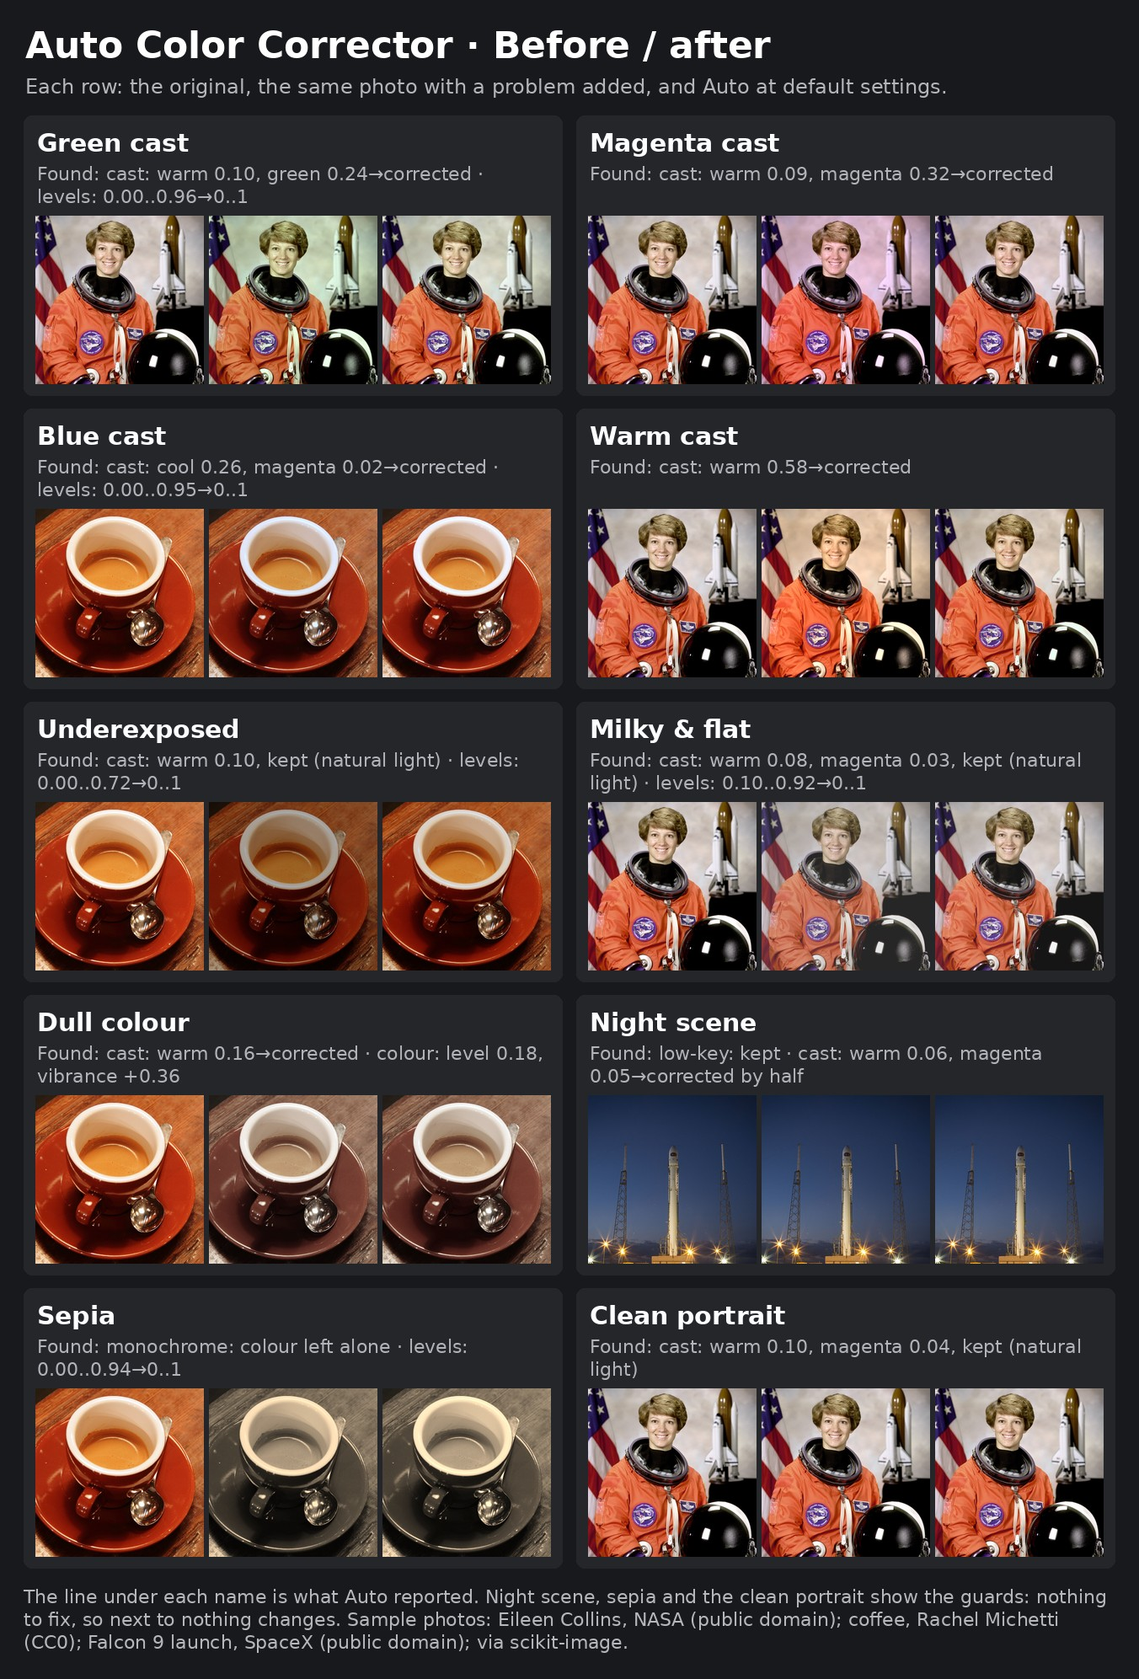
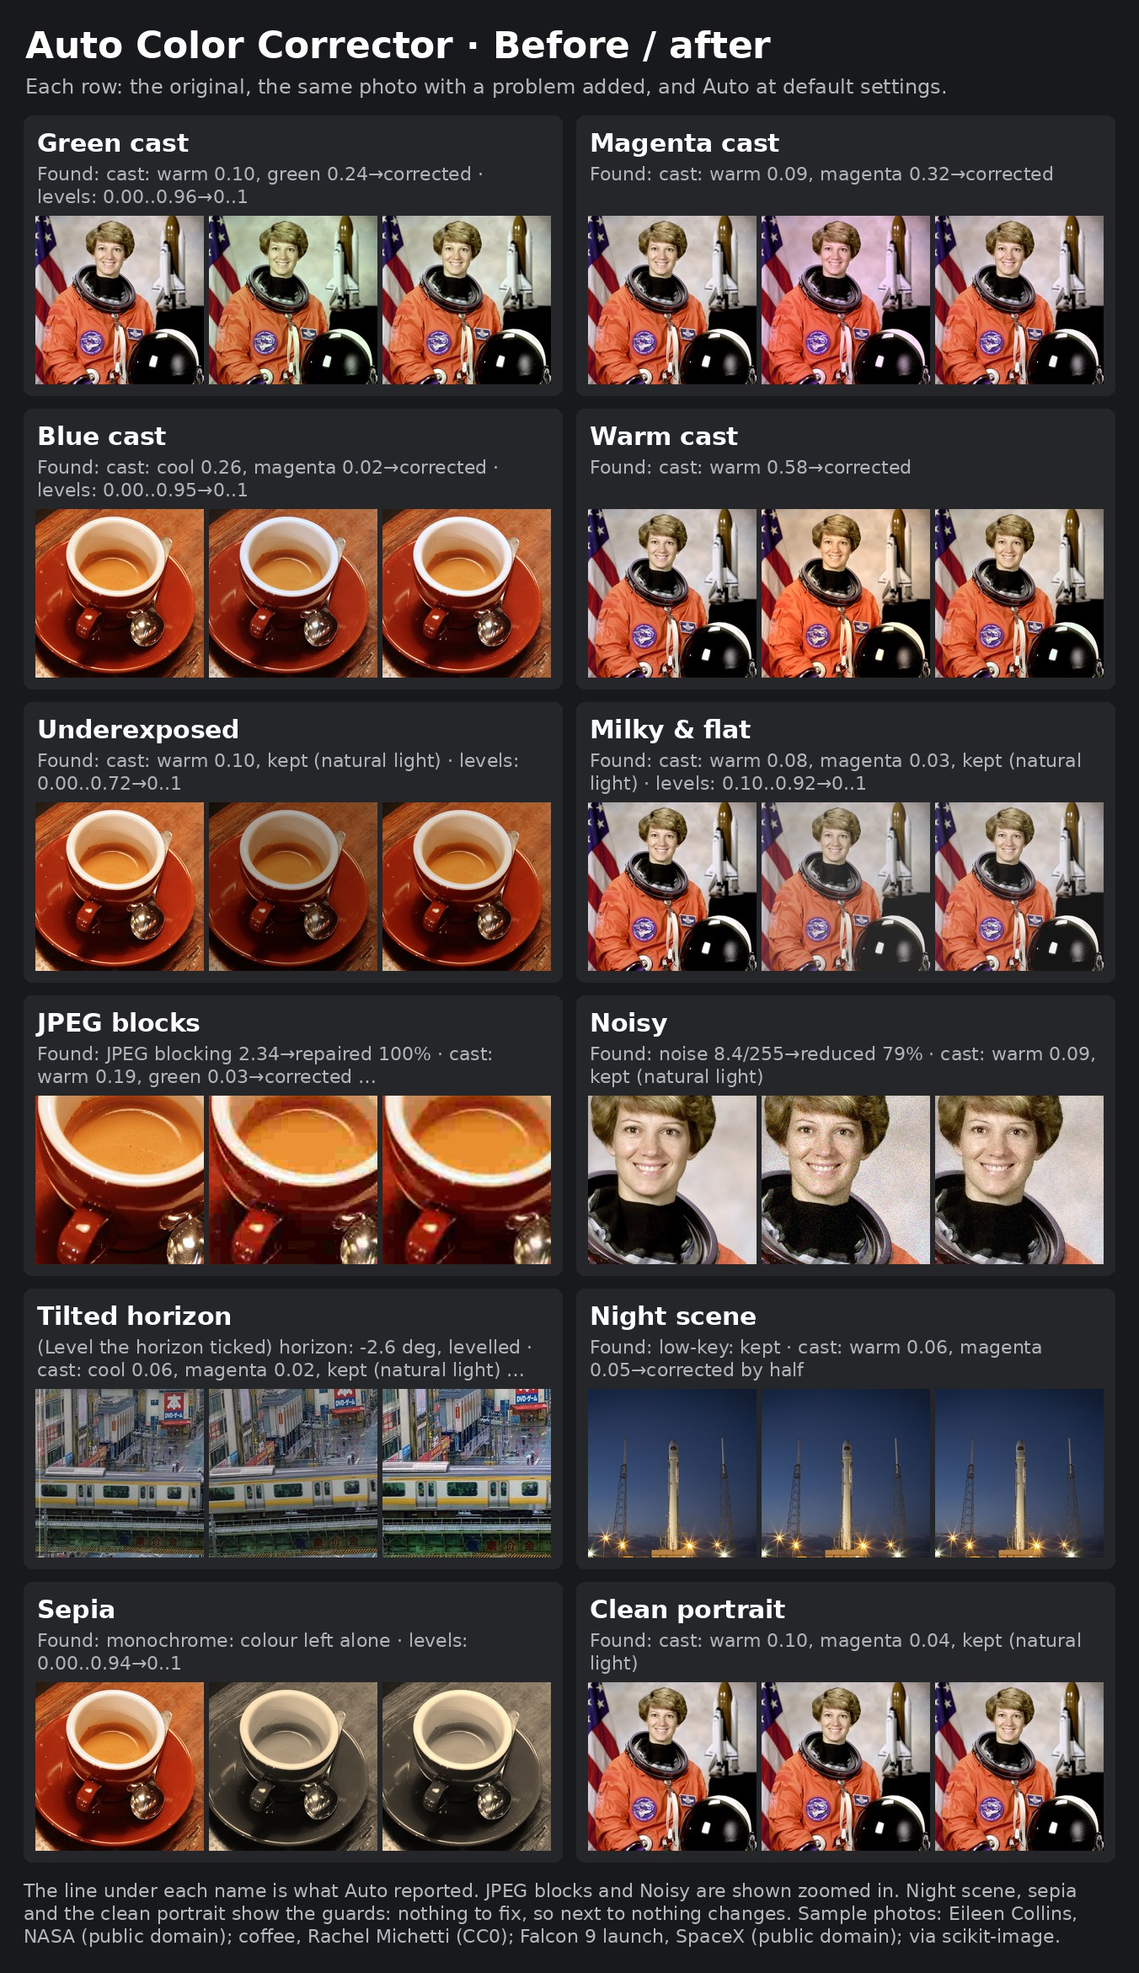
JPEG repair, noise reduction and horizon levelling, all measured
- JPEG blocking: measured as the step across the 8x8 grid against the steps
  inside the blocks (about 1.0 clean, 1.3 at quality 50, 1.7+ at 20);
  de-blocking and de-ringing (moved here from Digital Mastering) as strong as
  the blocking found.
- Noise: Immerkaer's estimate over the flatter half of the picture; chroma
  noise smoothed hard, luma gently and away from edges.
- Horizon (off by default): tilt from long coherent straight edges via the
  structure tensor, acted on only when confident; the picture is turned and
  scaled to hide the corners, after Overall strength so turned and original
  never mix.
- Skin-tone correction was tried and left out: without a person detector
  orange clothes, wood and coffee measure as skin.
- Three more X/Y/Z axes, before / after picture with JPEG, noise and horizon
  cases, README updated.

The earlier test cases report and render exactly as before.

Claude-Session: https://claude.ai/code/session_01VRYVbQCnCMuoqNc9wUeJiU

diff --git a/lib_acc/repair.py b/lib_acc/repair.py
@@ -1,0 +1,171 @@
+"""Repairs that Auto measures before it fixes: JPEG blocking and ringing,
+noise, a tilted horizon. Pure torch, (B, 3, H, W) sRGB in 0..1.
+
+JPEG de-blocking and de-ringing came over from Digital Mastering; here they
+are applied only as strongly as the blocking actually measured calls for.
+"""
+
+from __future__ import annotations
+
+import math
+
+import torch
+import torch.nn.functional as F
+
+from . import ops
+
+
+def _gauss(x, sigma):
+    if sigma <= 0:
+        return x
+    r = max(1, int(math.ceil(3 * sigma)))
+    t = torch.arange(-r, r + 1, device=x.device, dtype=x.dtype)
+    k = torch.exp(-0.5 * (t / sigma) ** 2)
+    k = k / k.sum()
+    c = x.shape[1]
+    mode = "reflect" if r < min(x.shape[-2:]) else "replicate"
+    x = F.conv2d(F.pad(x, (r, r, 0, 0), mode=mode), k.view(1, 1, 1, -1).expand(c, 1, 1, -1), groups=c)
+    return F.conv2d(F.pad(x, (0, 0, r, r), mode=mode), k.view(1, 1, -1, 1).expand(c, 1, -1, 1), groups=c)
+
+
+def _sobel(y):
+    kx = y.new_tensor([[-1.0, 0.0, 1.0], [-2.0, 0.0, 2.0], [-1.0, 0.0, 1.0]]).view(1, 1, 3, 3) / 4.0
+    p = F.pad(y, (1, 1, 1, 1), mode="replicate")
+    gx = F.conv2d(p, kx)
+    gy = F.conv2d(p, kx.transpose(2, 3))
+    return torch.sqrt(gx * gx + gy * gy + 1e-12)
+
+
+# ------------------------------------------------------------------ JPEG
+
+def blockiness(x):
+    """How much stronger the steps across the 8-pixel JPEG grid are than the
+    steps inside the blocks: about 1.0 for a clean image, 1.2+ when blocking
+    shows. Measured on the full-size image (resizing hides the grid)."""
+    y = ops.luma(x)[0, 0]
+    h, w = y.shape
+    if h < 32 or w < 32:
+        return 1.0
+    dx = (y[:, 1:] - y[:, :-1]).abs()
+    dy = (y[1:, :] - y[:-1, :]).abs()
+    on_x = (torch.arange(w - 1, device=x.device) % 8) == 7
+    on_y = (torch.arange(h - 1, device=x.device) % 8) == 7
+    edge = dx[:, on_x].mean() + dy[on_y, :].mean()
+    inner = dx[:, ~on_x].mean() + dy[~on_y, :].mean()
+    return float(edge / inner.clamp_min(1e-6))
+
+
+def deblock(x, strength):
+    """Soften the two pixels either side of each 8x8 JPEG block boundary."""
+    _, _, h, w = x.shape
+    rows = torch.arange(h, device=x.device)
+    cols = torch.arange(w, device=x.device)
+    on_r = ((rows % 8 == 7) & (rows < h - 1)) | ((rows % 8 == 0) & (rows > 0))
+    on_c = ((cols % 8 == 7) & (cols < w - 1)) | ((cols % 8 == 0) & (cols > 0))
+    mask = (on_r.view(1, 1, h, 1) | on_c.view(1, 1, 1, w)).to(x.dtype)
+    k = x.new_tensor([[1.0, 2.0, 1.0], [2.0, 4.0, 2.0], [1.0, 2.0, 1.0]]) / 16.0
+    blurred = F.conv2d(F.pad(x, (1, 1, 1, 1), mode="replicate"), k.expand(3, 1, 3, 3), groups=3)
+    return torch.lerp(x, blurred, mask * strength)
+
+
+def dering(x, strength):
+    """Smooth the flat areas right next to strong edges, where ringing lives."""
+    halo = _sobel(ops.luma(x))
+    halo = F.max_pool2d(halo, (1, 5), stride=1, padding=(0, 2))
+    halo = F.max_pool2d(halo, (5, 1), stride=1, padding=(2, 0))
+    halo = (halo * 3.0).clamp(0.0, 1.0)
+    return torch.lerp(x, _gauss(x, 1.0), halo * strength)
+
+
+# ------------------------------------------------------------------ noise
+
+def noise_sigma(x):
+    """Noise level (standard deviation, 0..1 scale) by Immerkaer's method,
+    taken only over the flatter half of the picture so texture is not
+    mistaken for noise. Uses at most a 1024 px centre crop."""
+    _, _, h, w = x.shape
+    if min(h, w) < 16:
+        return 0.0
+    ch, cw = min(h, 1024), min(w, 1024)
+    t, l = (h - ch) // 2, (w - cw) // 2
+    y = ops.luma(x[:, :, t:t + ch, l:l + cw])
+    k = y.new_tensor([[1.0, -2.0, 1.0], [-2.0, 4.0, -2.0], [1.0, -2.0, 1.0]]).view(1, 1, 3, 3)
+    resp = F.conv2d(y, k).abs()
+    grad = _sobel(y)[:, :, 1:-1, 1:-1]
+    flat = grad <= torch.quantile(grad.flatten()[::7].float(), 0.5)
+    if int(flat.sum()) < 100:
+        return 0.0
+    return float(math.sqrt(math.pi / 2) / 6.0 * resp[flat].mean())
+
+
+def denoise(x, amount):
+    """Chroma noise smoothed hard (it is the ugly part), luma noise gently and
+    only away from edges, so detail stays."""
+    if amount <= 0:
+        return x
+    m = x.new_tensor([[0.299, 0.587, 0.114], [-0.169, -0.331, 0.5], [0.5, -0.419, -0.081]])
+    ycc = torch.einsum("ij,bjhw->bihw", m, x)
+    y, c = ycc[:, 0:1], ycc[:, 1:3]
+    c = torch.lerp(c, _gauss(c, 1.5 + 2.5 * amount), min(1.0, amount * 1.5))
+    edges = (_sobel(y) * 8.0).clamp(0.0, 1.0)
+    y = torch.lerp(y, _gauss(y, 0.7 + 0.8 * amount), amount * (1.0 - edges))
+    return torch.einsum("ij,bjhw->bihw", torch.linalg.inv(m), torch.cat((y, c), 1)).clamp(0.0, 1.0)
+
+
+# ------------------------------------------------------------------ horizon
+
+def tilt(x, limit=8.0):
+    """(degrees to turn the picture to level it, confidence), from the long
+    straight edges near horizontal and vertical (horizons, buildings, door
+    frames). Confidence is how far the winning direction stands above an even
+    spread: around 1-2 for pictures without straight lines, 5 and up for
+    streets and buildings."""
+    y = ops.luma(x)
+    s = 768.0 / max(y.shape[-2:])
+    if s < 1.0:
+        y = F.interpolate(y, scale_factor=s, mode="area")
+    kx = y.new_tensor([[-1.0, 0.0, 1.0], [-2.0, 0.0, 2.0], [-1.0, 0.0, 1.0]]).view(1, 1, 3, 3)
+    p = F.pad(y, (1, 1, 1, 1), mode="replicate")
+    gx, gy = F.conv2d(p, kx), F.conv2d(p, kx.transpose(2, 3))
+    # Structure tensor: the local edge direction and how consistent it is,
+    # so long straight edges count and texture does not.
+    jxx, jxy, jyy = _gauss(gx * gx, 4.0), _gauss(gx * gy, 4.0), _gauss(gy * gy, 4.0)
+    energy = jxx + jyy
+    coherence = torch.sqrt((jxx - jyy) ** 2 + 4 * jxy * jxy) / (energy + 1e-9)
+    theta = 0.5 * torch.rad2deg(torch.atan2(2 * jxy, jxx - jyy))
+    w = (energy * (coherence > 0.85)).flatten()
+    dev = ((theta + 45.0) % 90.0 - 45.0).flatten()
+    near = (dev.abs() <= limit) & (w > 0)
+    if int(near.sum()) < 200:
+        return 0.0, 0.0
+    nb = int(limit * 8)                                       # quarter-degree bins
+    idx = ((dev[near] + limit) / (2 * limit) * (nb - 1)).round().long()
+    hist = torch.zeros(nb, device=x.device, dtype=x.dtype).index_add_(0, idx, w[near])
+    smooth = F.conv1d(hist.view(1, 1, -1), x.new_tensor([[[1.0, 2.0, 3.0, 2.0, 1.0]]]) / 9.0, padding=2)[0, 0]
+    k = int(smooth.argmax())
+    # Sub-bin peak by a parabola through the three bins around it.
+    off = 0.0
+    if 0 < k < nb - 1:
+        a, b, c = (float(v) for v in smooth[k - 1:k + 2])
+        den = a - 2 * b + c
+        off = 0.5 * (a - c) / den if abs(den) > 1e-12 else 0.0
+    angle = -limit + 2 * limit * (k + off) / (nb - 1)
+    return angle, float(smooth[k] / smooth.mean().clamp_min(1e-9))
+
+
+def rotate(x, degrees):
+    """Turn the picture and scale it just enough that no empty corner shows."""
+    if abs(degrees) < 1e-3:
+        return x
+    _, _, h, w = x.shape
+    t = math.radians(degrees)
+    c, s = math.cos(t), math.sin(t)
+    a = w / h
+    zoom = abs(c) + abs(s) * max(a, 1.0 / a)
+    yy, xx = torch.meshgrid(torch.linspace(-1, 1, h, device=x.device, dtype=x.dtype),
+                            torch.linspace(-1, 1, w, device=x.device, dtype=x.dtype), indexing="ij")
+    px, py = xx * a / zoom, yy / zoom
+    gx = (px * c - py * s) / a
+    gy = px * s + py * c
+    grid = torch.stack((gx, gy), -1).unsqueeze(0).expand(x.shape[0], -1, -1, -1)
+    return F.grid_sample(x, grid, mode="bicubic", padding_mode="border", align_corners=True).clamp(0.0, 1.0)

diff --git a/lib_acc/auto.py b/lib_acc/auto.py
@@ -21,7 +21,7 @@ from dataclasses import dataclass, field
 import torch
 import torch.nn.functional as F
 
-from . import ops
+from . import ops, repair
 
 ANALYSIS_SIZE = 512
 
@@ -36,11 +36,16 @@ class Plan:
     pivot: float = 0.5
     vibrance: float = 0.0
     reference: tuple = None       # (ref_mean, ref_std) in Lab
+    deblock: float = 0.0
+    dering: float = 0.0
+    denoise: float = 0.0
+    rotate: float = 0.0           # degrees
     notes: list = field(default_factory=list)
 
     def changes(self):
         return (any(abs(g - 1.0) > 1e-6 for g in self.gains) or self.black > 0.0 or self.white < 1.0
-                or bool(self.stops) or bool(self.contrast) or bool(self.vibrance) or self.reference is not None)
+                or bool(self.stops) or bool(self.contrast) or bool(self.vibrance) or self.reference is not None
+                or self.deblock > 0 or self.denoise > 0 or bool(self.rotate))
 
     def report(self):
         return " · ".join(self.notes) if self.notes else "nothing to correct"
@@ -172,6 +177,23 @@ def _describe_cast(gains):
 def plan(x, s, reference=None):
     """Decide the corrections for x (1, 3, H, W) under settings s."""
     p = Plan()
+
+    # 0. Repairs, measured on the full-size picture: resizing hides the JPEG
+    # grid and averages noise away.
+    if s["en_jpeg"] and s["jpeg"] > 0:
+        b = repair.blockiness(x)
+        amount = min(1.0, max(0.0, (b - 1.12) / 0.5)) * s["jpeg"]
+        if amount >= 0.05:
+            # Ringing softens detail when cleaned, so it gets the lighter hand.
+            p.deblock, p.dering = amount, amount * 0.5
+            p.notes.append(f"JPEG blocking {b:.2f} -> repaired {amount:.0%}")
+    if s["en_denoise"] and s["denoise"] > 0:
+        sigma = repair.noise_sigma(x)
+        amount = min(1.0, max(0.0, (sigma - 0.008) / 0.025)) * s["denoise"]
+        if amount >= 0.05:
+            p.denoise = amount
+            p.notes.append(f"noise {sigma * 255:.1f}/255 -> reduced {amount:.0%}")
+
     small = _small(x)
     mono = is_monochrome(small)
     key = tonal_key(small) if s["protect_intent"] else "normal"
@@ -276,7 +298,16 @@ def plan(x, s, reference=None):
             p.vibrance = amount
             p.notes.append(f"colour: level {level:.2f}, vibrance {amount:+.2f}")
 
-    # 6. Reference
+    # 6. Horizon (off by default: it turns and crops the frame)
+    if s["en_horizon"]:
+        angle, confidence = repair.tilt(small)
+        if confidence >= 4.0 and 0.4 <= abs(angle) <= 8.0:
+            p.rotate = angle
+            p.notes.append(f"horizon: {angle:+.1f} deg, levelled")
+        elif abs(angle) >= 0.4 and confidence > 0:
+            p.notes.append(f"horizon: maybe {angle:+.1f} deg, not sure enough, kept")
+
+    # 7. Reference
     if reference is not None and s["ref_strength"] > 0:
         p.reference = lab_stats(reference)
         p.notes.append(f"reference: matched {s['ref_strength']:.0%}")
@@ -284,7 +315,15 @@ def plan(x, s, reference=None):
 
 
 def apply(x, p, ref_strength=0.0):
-    """Carry out a plan on the full-size image."""
+    """Carry out a plan's pixel corrections on the full-size image. The
+    horizon turn is not here: it changes the geometry, so it is done after
+    Overall strength has blended corrected and original."""
+    if p.deblock > 0:
+        x = repair.deblock(x, p.deblock)
+    if p.dering > 0:
+        x = repair.dering(x, p.dering)
+    if p.denoise > 0:
+        x = repair.denoise(x, p.denoise)
     if any(abs(g - 1.0) > 1e-6 for g in p.gains):
         x = ops.white_balance(x, x.new_tensor(p.gains))
     if p.black > 0.0 or p.white < 1.0:
@@ -330,6 +369,8 @@ def correct(image, s, reference=None, device="cpu"):
     out = apply(x, p, s["ref_strength"] if ref is not None else 0.0)
     if s["strength"] < 1.0:
         out = torch.lerp(x, out, s["strength"])
+    if p.rotate:
+        out = repair.rotate(out, p.rotate)
     result = to_image(out)
     if alpha is not None:
         result.putalpha(alpha)

diff --git a/scripts/auto_color_corrector.py b/scripts/auto_color_corrector.py
@@ -19,15 +19,17 @@ from lib_acc.controls import (  # noqa: E402
 from lib_acc.reference import reference_html  # noqa: E402
 from lib_acc import xyz  # noqa: E402
 
-GUIDE = ("*Fixes what is off and nothing else: colour casts, milky blacks, too dark or too bright, flat or "
-         "harsh, dull colour. Each fix measures the image first and is skipped when there is nothing to "
+GUIDE = ("*Fixes what is off and nothing else: JPEG blocking, noise, colour casts, milky blacks, too dark or "
+         "too bright, flat or harsh, dull colour, and (if ticked) a tilted horizon. Each fix measures the image first and is skipped when there is nothing to "
          "fix. Runs before Optical Realism and Digital Mastering, so they start from a clean picture. "
          "The console and PNG info say what was found.*")
 
 SECTIONS = [
+    ("Repair", ["en_jpeg", "jpeg", "en_denoise", "denoise"]),
     ("Colour cast", ["en_wb", "wb", "keep_mood"]),
     ("Tone", ["en_levels", "levels", "en_exposure", "exposure", "en_contrast", "contrast"]),
     ("Colour strength", ["en_saturation", "saturation"]),
+    ("Horizon", ["en_horizon"]),
     ("Intent", ["protect_intent"]),
 ]
 
@@ -44,6 +46,9 @@ def _register_xyz():
         ("Fix exposure", str, "en_exposure", xyz.bools),
         ("Fix contrast", str, "en_contrast", xyz.bools),
         ("Fix colour strength", str, "en_saturation", xyz.bools),
+        ("Fix JPEG blocking", str, "en_jpeg", xyz.bools),
+        ("Fix noise", str, "en_denoise", xyz.bools),
+        ("Level the horizon", str, "en_horizon", xyz.bools),
         ("Respect low-key / high-key", str, "protect_intent", xyz.bools),
     ])
 

diff --git a/lib_acc/controls.py b/lib_acc/controls.py
@@ -34,6 +34,13 @@ CONTROLS = [
     C("contrast", "Contrast", 0.6, info="Lifts a flat picture, calms a harsh one."),
     C("en_saturation", "Fix colour strength", True, kind="checkbox"),
     C("saturation", "Colour strength", 0.8, info="Vibrance on dull pictures; skin and strong colours are spared."),
+    C("en_jpeg", "Fix JPEG blocking", True, kind="checkbox"),
+    C("jpeg", "JPEG repair", 1.0, info="Measures the 8x8 block grid and smooths it and the ringing round edges."),
+    C("en_denoise", "Fix noise", True, kind="checkbox"),
+    C("denoise", "Noise reduction", 0.8, info="Measures the noise; colour noise is smoothed hard, grain-like "
+      "luminance noise gently and away from edges."),
+    C("en_horizon", "Level the horizon", False, kind="checkbox",
+      info="Finds a tilt from long straight lines and turns the picture level (it crops a little). Off by default."),
     C("protect_intent", "Respect low-key / high-key pictures", True, kind="checkbox",
       info="A night scene with lights stays dark, a bright snow scene stays bright."),
     C("ref_strength", "Reference strength", 0.5,

diff --git a/README.md b/README.md
@@ -1,8 +1,8 @@
 # Stable Diffusion Forge: Auto Color Corrector
 
-Fixes what is off in every generated image, and nothing else: colour casts,
-milky blacks, a frame that is too dark or too bright, flat or harsh contrast,
-dull colour. Each fix measures the image first and is skipped when there is
+Fixes what is off in every generated image, and nothing else: JPEG blocking,
+noise, colour casts, milky blacks, a frame that is too dark or too bright, flat
+or harsh contrast, dull colour, and (when ticked) a tilted horizon. Each fix measures the image first and is skipped when there is
 nothing to fix, so a well-made image comes through untouched. Works on Forge,
 reForge and Forge Classic (Neo). No models, no downloads: it reads the
 picture's own histogram and colours.
@@ -16,7 +16,7 @@ order:
 
 | 1. [Auto Color Corrector](https://github.com/sca-285/sd-forge-auto-color-corrector) | 2. [Optical Realism](https://github.com/sca-285/sd-forge-optical-realism) | 3. [Digital Mastering](https://github.com/sca-285/sd-webui-digital-mastering) |
 |---|---|---|
-| **Correction**, automatic: measures the image and fixes only what is off (colour cast, black and white points, exposure, flat or harsh contrast, dull colour), or matches a reference picture | **The camera**: lens geometry, vignette, depth of field, blur, bloom, flare, halation, light wrap, flash, haze, grain, dust, scratches, date stamp, highlight roll-off | **The grade**, by hand or by preset: exposure, contrast, white balance, saturation, vibrance, split toning, CDL, LUT, selective colour, clarity, sharpen, overlays, anti-banding, JPEG repair |
+| **Correction**, automatic: measures the image and fixes only what is off (colour cast, black and white points, exposure, flat or harsh contrast, dull colour, JPEG blocks, noise, a tilted horizon), or matches a reference picture | **The camera**: lens geometry, vignette, purple fringing, depth of field and bokeh, tilt-shift, blur, bloom, flare, anamorphic streak, star filter, god rays, halation, light wrap, flash, haze, grain, dust, scratches, date stamp, highlight roll-off, retro video | **The grade**, by hand or by preset: exposure, contrast, white balance, saturation, vibrance, split toning, CDL, LUT, selective colour, clarity, sharpen, overlays, HSL, colour wheels, tone curves, black & white, dehaze, skin smoothing, local light, subtitles, anti-banding |
 
 No two of them do the same job. Auto Color Corrector and Digital Mastering
 both touch exposure and white balance, but for opposite ends: the corrector
@@ -32,12 +32,15 @@ here is a look: for looks, use the presets of the other two.
 
 | Step | Detects | Fixes |
 |---|---|---|
+| JPEG blocking | How much stronger the steps across the 8x8 JPEG grid are than inside the blocks (about 1.0 when clean, 1.3 at quality 50, 1.7+ at quality 20), on the full-size picture | De-blocking along the grid and de-ringing round edges, as strong as the blocking measured (moved here from Digital Mastering) |
+| Noise | The noise level (Immerkaer's method) over the flatter half of the picture, so texture is not taken for noise | Colour noise smoothed hard, luminance noise gently and only away from edges |
 | Colour cast | The colour of the bright near-neutral pixels (a white shirt, a cup, clouds), on both axes: warm/cool and green/magenta | White balance in linear light, by the size of the cast. Warm and cool light within an everyday range is kept as natural light; green and magenta casts get almost no allowance |
 | Black & white points | Milky blacks, dull whites (0.5 % and 99.5 % percentiles) | Levels, capped so nothing clips |
 | Exposure | A median brightness outside the normal band, or clipped whites | Exposure in linear light, with a shoulder so black stays black and white stays white; brought to the edge of the band, not to one "correct" grey |
 | Contrast | A flat or harsh histogram (its middle half) | A gentle S-curve around the picture's own middle grey |
 | Colour strength | Dull or overcooked colour | Vibrance: weak colours move most, skin and strong colours least |
 | Reference (optional) | Your reference picture | Its colour and spread (mean and deviation in Lab), at Reference strength |
+| Horizon (off by default) | The tilt of the long straight edges near horizontal and vertical (horizons, buildings, door frames), from the structure tensor, with a confidence | Turns the picture level and scales it just enough to hide the corners; only when confident (streets, buildings), never for pictures without straight lines. Done after Overall strength, so the turned and the original picture never mix |
 
 **Guards** keep deliberate pictures as they are:
 
@@ -48,6 +51,10 @@ here is a look: for looks, use the presets of the other two.
 - **No neutrals to measure** (golden hour, neon): the colour is left alone.
 - **Almost one tone** (a plain backdrop): the tone is left alone.
 - **Keep mood** keeps a share of any cast it finds.
+
+Skin tone is not corrected on its own: without a person detector, orange
+clothes, wood and coffee measure as skin. A cast on skin is fixed by the white
+balance; Digital Mastering's HSL (orange, red) adjusts skin by hand.
 
 Each step has an on/off box and a strength slider; **Overall strength**
 (default 0.8) blends the whole correction with the original.
@@ -62,7 +69,8 @@ The console prints a line per image, and PNG info carries it:
 
 Axes for the X/Y/Z plot script, under `[ACC]`: Overall strength, Keep mood,
 and on/off for each fix (colour cast, black & white points, exposure,
-contrast, colour strength, low-key / high-key guard). A cell that sets any of
+contrast, colour strength, JPEG blocking, noise, horizon, low-key / high-key
+guard). A cell that sets any of
 them switches the corrector on for that cell.
 
 ## PNG info
@@ -77,6 +85,7 @@ is not stored.
 scripts/auto_color_corrector.py   UI + host hook
 lib_acc/auto.py                   measuring, guards and the plan of corrections
 lib_acc/ops.py                    the colour maths, pure torch
+lib_acc/repair.py                 JPEG blocking, noise and horizon: measuring and fixing
 lib_acc/controls.py               every control, declared once (UI, PNG info)
 lib_acc/xyz.py                    X/Y/Z plot axes
 lib_acc/reference.py              the folded before / after picture
